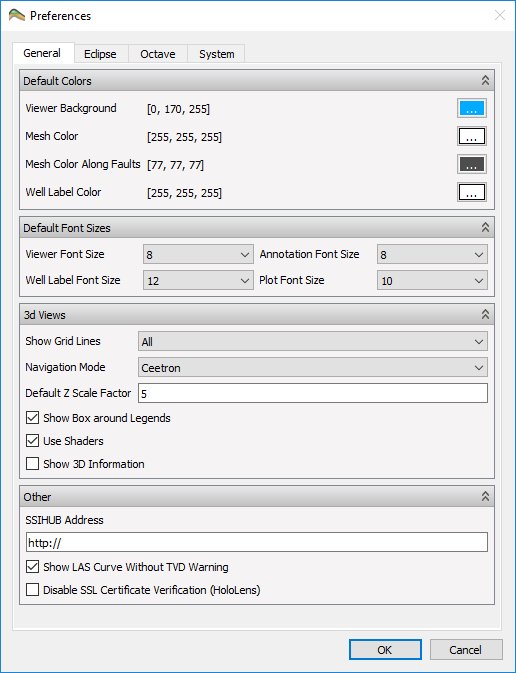
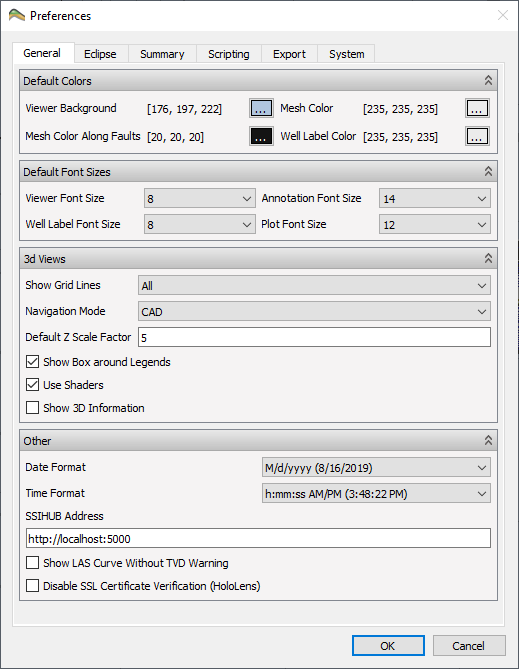
Update preferences

diff --git a/content/misc/Preferences.md b/content/misc/Preferences.md
@@ -34,7 +34,7 @@ This group contains the different fonts which are used through ResInsight.
 - **Well Label Font Size** -- The font used for all Well Path labels.
 - **Plot Font Size** - The font used for legends, axes labels, values in Plots. This affects the docked plots in the main 3D window as well (Result Plot, Relative Permeability etc), although because of the reduces space available in these plots, the font size applied will be one less than the **Plot Font Size**.
 
-### 3d Views
+### 3D Views
 
 This group of options controls visual settings that will be used when creating new views.
 
@@ -46,8 +46,10 @@ This group of options controls visual settings that will be used when creating n
 - **Show 3D Information** -- Displays graphical resource usage as text in the 3D view.
 
 ### Other
-- **SSIHUB Address** -- Optional URL to Statoil internal web service used to import well paths.
-- **Show LAS Curve Without TVD Warning** - Turn off the warning displayed when showing LAS curves in TVD mode.
+- **Date Format** -- Defines the date format to be used in time legend plotting
+- **Time Format** -- Defines the time format to be used in time legend plotting
+- **SSIHUB Address** -- Optional URL to Equinor internal web service used to import well paths
+- **Show LAS Curve Without TVD Warning** - Turn off the warning displayed when showing LAS curves in TVD mode
 
 ## Eclipse - tab
 
@@ -58,21 +60,48 @@ This group of options controls visual settings that will be used when creating n
 - **Compute DEPTH Related Properties** -- If not present, compute DEPTH, DX, DY, DZ, TOP, BOTTOM when loading new cases.
 - **Load and Show SOIL** -- Control if SOIL is loaded and applied to grid.
 - **Import Faults/NNCs/Advanced MSW Data** -- Disable import of data for a case to reduce case import time.
-- **Fault Include File Absolute Path Prefix** -- Prefix used on Windows if fault files use absolute UNIX paths.
+- **Include File Absolute Path Prefix** -- Prefix used on Windows if include files use absolute UNIX paths.
 - **Use Result Index File** -- If enabled ResInsight will try to save a result index file when opening a new case. The file is stored in the same directory as the _`*.EGRID`_ file with filename _`<casename>.RESINSIGHT_IDX`_ If it exists, ResInsight will use this when loading the case, resulting in a significant speedup.
 - **Skip Import of Simulation Well Data** -- Disable import of simulation well data for a case to reduce case import time (opposite toggling than the other import commands).
 
-## Octave - tab
+### Origin Files
+Please refer to [Summary Origin]({{< relref "summaryplots.md#origin-files" >}}) for details related to handling of **Origin Files**.
 
-![]({{< relref "" >}}images/3d-main-window/OctavePreferences.png)
+
+## Summary - tab
+
+![]({{< relref "" >}}images/3d-main-window/Preferences_Summary.png)
+
+- **Default Summary Curves** -- Defines the curves for import when creating a new summary plot, ie `FOPT WOPT*`
+- **Default Curve Style for History Vectors**
+
+## Scripting - tab
+
+![]({{< relref "" >}}images/3d-main-window/Preferences_Scripting.png)
 
 ### Octave
 
-- **Octave executable location** -- Defines the binary file location for Octave. Usually without path on Linux, and including path on Windows.
+- **Octave Executable Location** -- Defines the binary file location for Octave. Usually without path on Linux, and including path on Windows.
 - **Show text header when executing scripts** -- Enables the default output that octave outputs when started.
+
+Please refer to [Octave Interface]({{< relref "octaveinterface.md" >}}) for more details.
+
+### Python
+
+- **Enable Python Script Server**
+- **Default Python Script Server Port** -- Defines the port used for communication with Python scripts
+- **Python Executable Location** 
+
+Please refer to [Python API]({{< relref "pythonrips.md" >}}) for more details.
 
 ### Script Files
 
 - **Shared Script Folder(s)** -- Defines the search paths for octave scripts
 - **Script Editor** -- The text editor to invoke when editing scripts
 
+
+## Export - tab
+
+![]({{< relref "" >}}images/3d-main-window/Preferences_Export.png)
+
+- **CSV Text Export Field Separator**
